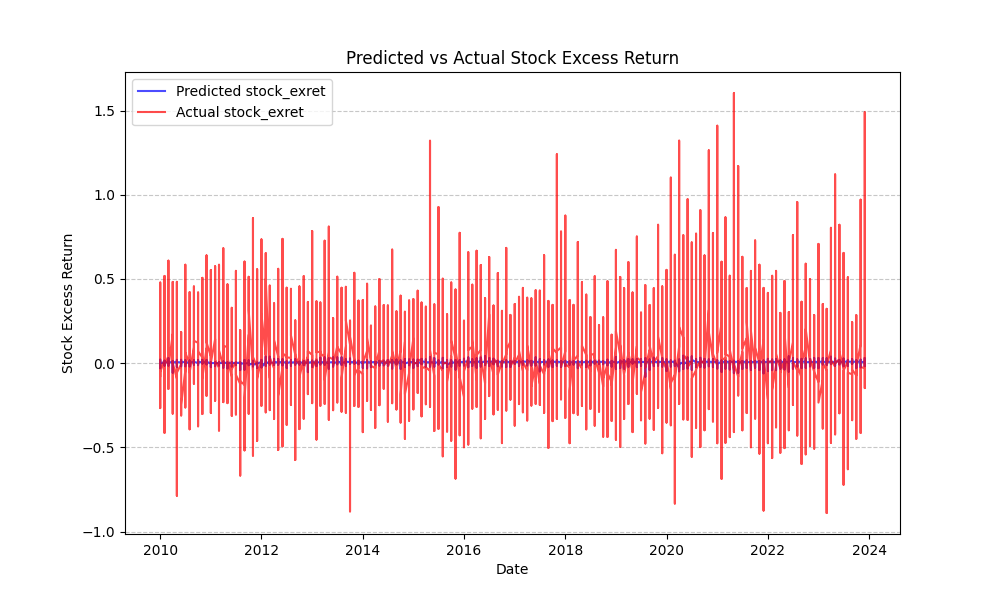
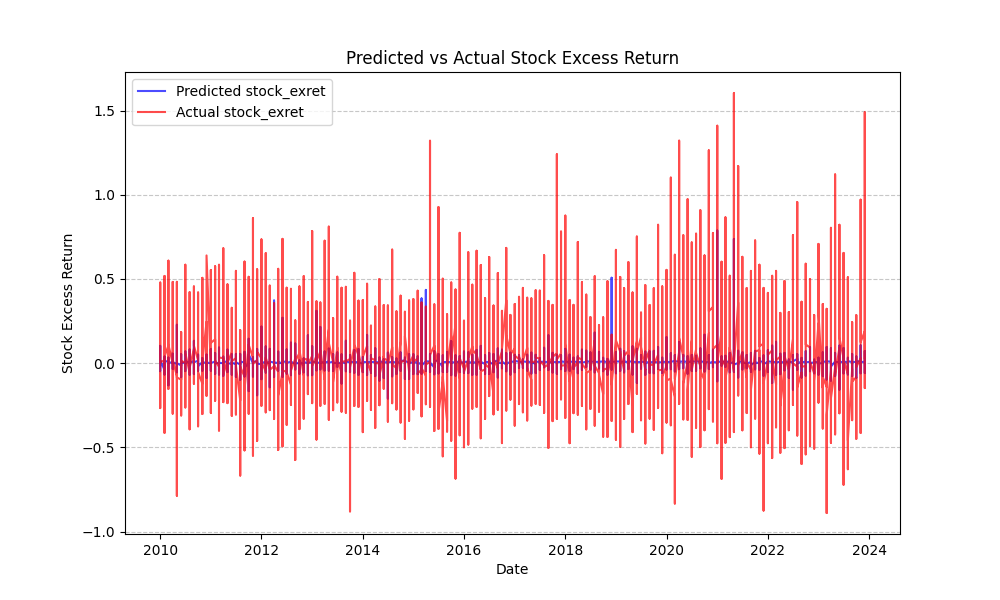
THE END!

Changed region(s): [[0.155, 0.39, 0.868, 0.66]]

diff --git a/portfolio_analysis/portfolio_analysis_RF_v4.py b/portfolio_analysis/portfolio_analysis_RF_v4.py
@@ -16,15 +16,16 @@ for col in required_columns:
     if col not in data.columns:
         raise ValueError(f"缺少必要的列：{col}")
 
-# 计算全局 R²
-def calculate_r_squared(actual, predicted):
+# 修改后的 R^2 计算函数
+def calculate_r_squared_new(actual, predicted):
     ss_residual = np.sum((actual - predicted) ** 2)
-    ss_total = np.sum((actual - np.mean(actual)) ** 2)
+    ss_total = np.sum(actual ** 2)  # 根据提供的公式，不减去均值
     r_squared = 1 - ss_residual / ss_total
     return r_squared
 
-r_squared = calculate_r_squared(data["actual_stock_exret"], data["stock_exret_pred"])
-print(f"Overall R²: {r_squared:.4f}")
+# 使用新的 R^2 公式计算
+r_squared_new = calculate_r_squared_new(data["actual_stock_exret"], data["stock_exret_pred"])
+print(f"Custom R² (based on provided definition): {r_squared_new:.4f}")
 
 # 按年月分组计算 IC 和月度 R²
 data["year"] = data["date"].dt.year
@@ -37,7 +38,7 @@ for (year, month), group in data.groupby(["year", "month"]):
         # IC 计算
         ic, _ = spearmanr(group["stock_exret_pred"], group["actual_stock_exret"])
         # 月度 R² 计算
-        r_squared_month = calculate_r_squared(group["actual_stock_exret"], group["stock_exret_pred"])
+        r_squared_month = calculate_r_squared_new(group["actual_stock_exret"], group["stock_exret_pred"])
     else:
         ic, r_squared_month = np.nan, np.nan  # 样本量不足时
     ic_values.append({"year": year, "month": month, "IC": ic, "R²": r_squared_month})
@@ -152,4 +153,28 @@ plt.title("Portfolio Analysis")
 plt.xlabel("Months")
 plt.ylabel("Cumulative Return")
 plt.legend()
+plt.show()
+
+# 绘制 stock_exret_pred 的曲线
+plt.figure(figsize=(10, 6))
+data_sorted = data.sort_values("date")
+plt.plot(data_sorted["date"], data_sorted["stock_exret_pred"], label="Predicted stock_exret", color="blue", alpha=0.7)
+plt.title("Predicted Stock Excess Return (stock_exret_pred)")
+plt.xlabel("Date")
+plt.ylabel("Predicted Stock Excess Return")
+plt.grid(axis="y", linestyle="--", alpha=0.7)
+plt.legend()
+plt.savefig(os.path.join(work_dir, "stock_exret_pred_curve.png"))
+plt.show()
+
+# 绘制 stock_exret_pred 和 actual_stock_exret 对比曲线
+plt.figure(figsize=(10, 6))
+plt.plot(data_sorted["date"], data_sorted["stock_exret_pred"], label="Predicted stock_exret", color="blue", alpha=0.7)
+plt.plot(data_sorted["date"], data_sorted["actual_stock_exret"], label="Actual stock_exret", color="red", alpha=0.7)
+plt.title("Predicted vs Actual Stock Excess Return")
+plt.xlabel("Date")
+plt.ylabel("Stock Excess Return")
+plt.grid(axis="y", linestyle="--", alpha=0.7)
+plt.legend()
+plt.savefig(os.path.join(work_dir, "predicted_vs_actual_curve.png"))
 plt.show()

diff --git a/data/v4.md b/data/v4.md
@@ -84,3 +84,18 @@ PCA completed. Reduced to 10 principal components.
 Training Random Forest model with GridSearchCV...
 Output saved to data/output_rf_11.csv
 Window 12: Starting feature selection using Random Forest...
+Selected top 20 features based on Random Forest importance: ['coskew_21d', 'ret_9_1', 'ret_12_7', 'seas_2_5an', 'age', 'betabab_1260d', 'ret_6_1', 'prc_highprc_252d', 'bidaskhl_21d', 'betadown_252d', 'ret_1_0', 'ret_3_1', 'seas_1_1an', 'beta_dimson_21d', 'debt_gr3', 'rd_me', 'rd5_at', 'sti_gr1a', 'rd_sale', 'lti_gr1a']
+Feature selection completed.
+Performing PCA for dimensionality reduction...
+PCA completed. Reduced to 10 principal components.
+Training Random Forest model with GridSearchCV...
+Output saved to data/output_rf_12.csv
+Window 13: Starting feature selection using Random Forest...
+Selected top 20 features based on Random Forest importance: ['seas_2_5an', 'age', 'ret_12_7', 'seas_1_1na', 'sti_gr1a', 'ret_6_1', 'beta_60m', 'bidaskhl_21d', 'ret_1_0', 'betabab_1260d', 'ret_3_1', 'seas_1_1an', 'beta_dimson_21d', 'betadown_252d', 'prc_highprc_252d', 'lti_gr1a', 'debt_gr3', 'rd_sale', 'rd5_at', 'rd_me']
+Feature selection completed.
+Performing PCA for dimensionality reduction...
+PCA completed. Reduced to 10 principal components.
+Training Random Forest model with GridSearchCV...
+Output saved to data/output_rf_13.csv
+All modeling and predictions completed.
+2024-12-27 04:18:39.386668
